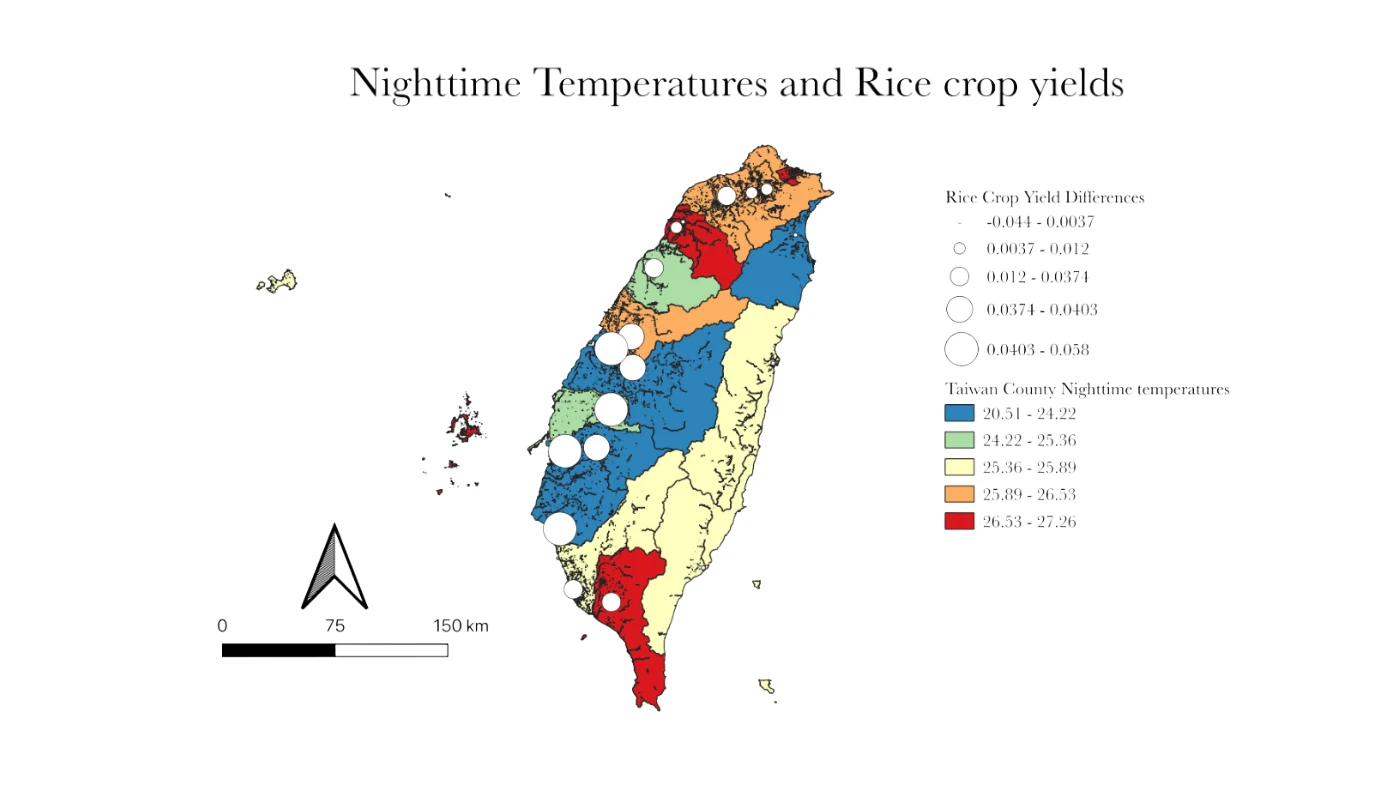
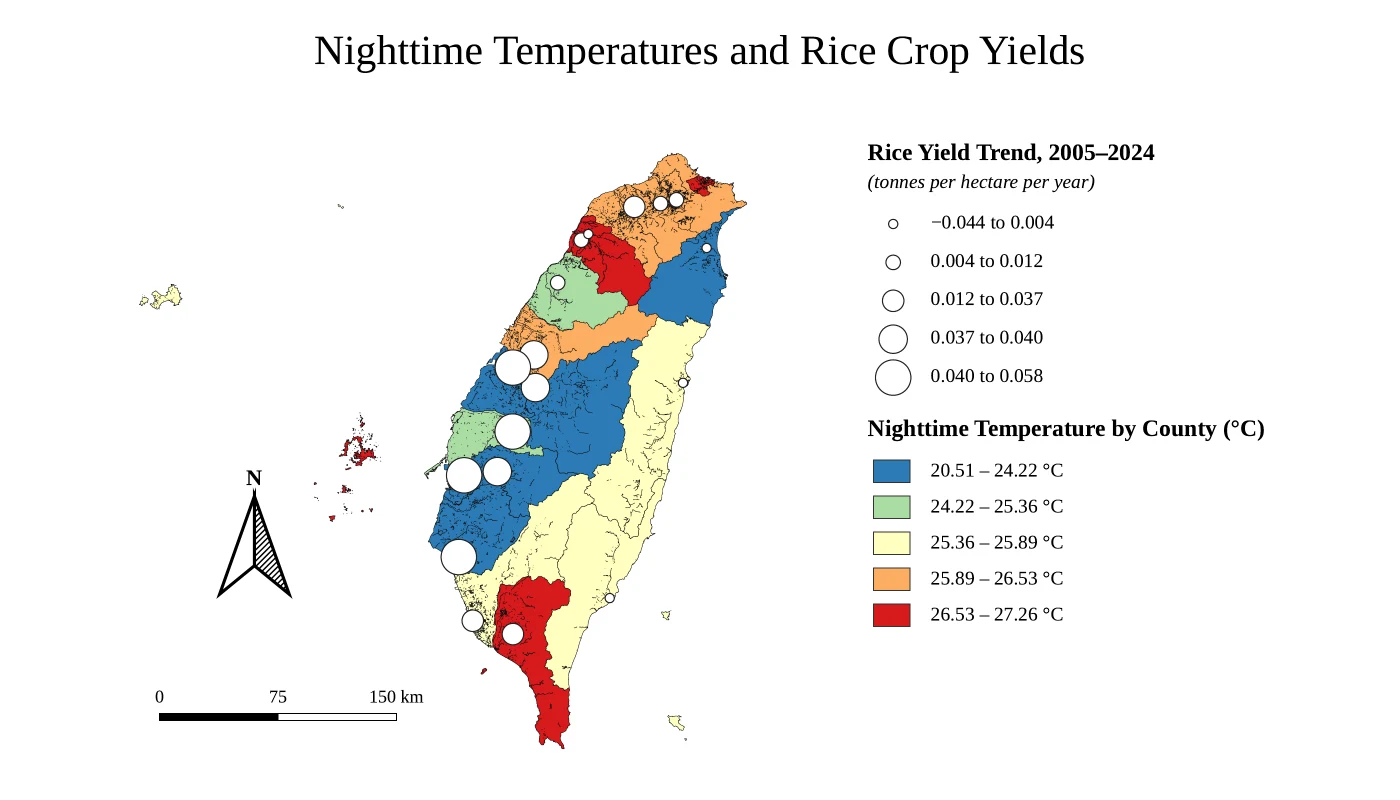
Description and Math Model: Audrey's new map, and what the business plan still prices
Description: the nighttime-temperature map is Audrey's 21 October export. The
temperature bands are unchanged; the circles are now labelled as the 2005-2024
rice yield trend in tonnes per hectare per year, so the caption and the alt
text say that instead of "yield differences".

Math Model: one sentence under the three-figure table says the business plan
has not been rebuilt on the US$3,800 result -- it prices two 1-litre reactors
to the hectare, a US$2,280 hardware line. Entrepreneurship is untouched, and
that sentence is the only place this page quotes its number.

diff --git a/model/index.html b/model/index.html
@@ -157,6 +157,13 @@
   are US$9,375. The unit price was carried as US$938, which did not multiply to
   the stated fleet total; it is written as US$937.50 throughout now. The
   US$379,992 for 100 hectares is a downstream rounding and was left alone.
+
+  THE BUSINESS PLAN STILL PRICES THE OLD FLEET, 21 October 2026. Entrepreneurship
+  sizes two 1-litre reactors to the hectare and carries a US$2,280 hardware line;
+  this page derives US$3,800. One sentence under the three-figure table says so,
+  and it is the only place on this page that quotes the business plan's number.
+  Entrepreneurship was not touched. If either figure moves, edit that sentence
+  and nothing else here.
 -->
   <div id="site-nav" data-base="../" data-tab="drylab" data-page="model"></div>
   <div class="sitenav-spacer"></div>
@@ -402,6 +409,7 @@ constants, public records and the five assumptions of Section 3 fill the steps b
 farmland requires, the gap between that and current reactor output, and the cost of closing it.
 All three carry the canopy correction, so they are scenario figures and not quotations.</p>
 <div class="tablewrap"><table class="data"><caption class="visually-hidden">The three numbers the business plan asked for, and where each comes from</caption><tr><th>The question</th><th>The answer this model gives</th><th>Where in the model</th></tr><tr><td>How much protectant does one hectare need?</td><td><b>37.6 kU</b> per application and <b>339 kU</b> in a season that fires, which at our secreted protein concentration is about 10 g and 92 g of enzyme</td><td>M4, the protectant group</td></tr><tr><td>How far is that from what we can make now?</td><td>One hectare needs <b>81 L of vessel</b> running all season. The current spec is 10 × 20 L = 200 L, which covers <b>2.5 ha</b>, about one Taiwanese farm. A 100-hectare association needs 8,106 L, a <b>41×</b> scale-up</td><td>M4, the machine group, and M5</td></tr><tr><td>What does that cost?</td><td><b>US$3,800 of capital per hectare</b> at US$937.50 per 20-litre unit, before any refill, service or labour. For 100 hectares, US$379,992</td><td>M4, the result line</td></tr></table></div>
+<p>The business plan has not yet been rebuilt on the last of these. It prices two units of the 1-litre system to the hectare, a hardware line of US$2,280 per hectare against the US$3,800 derived here.</p>
 <p>Geospatial Analysis answers a similar but distinct question. It derives units per hectare
 from soil class, which governs how far and how long the protectant remains where it is applied;
 this page derives units per hectare from reactor throughput, which governs whether enough can be

diff --git a/description/index.html b/description/index.html
@@ -42,6 +42,12 @@
   one table in build_map.py (agent scratchpad), which rewrites the block between
   the MAP markers; the icons are the team's own BioRender work and none of it
   is AI-written. Edit the script, never the markup.
+
+  21 October 2026. Audrey's fix: the nighttime-temperature map is her new
+  export ("nighttime_temp_rice_yield_map", 21 Oct). The temperature bands are
+  unchanged; the circles are now labelled as the 2005-2024 rice yield trend in
+  tonnes per hectare per year, so the caption and the alt text say that instead
+  of "yield differences".
 -->
 
 <!--
@@ -387,9 +393,9 @@
 
         <figure class="fig">
           <img src="../assets/img/description/gis-night-temp-rice-crop.webp"
-               alt="A choropleth map of Taiwan titled Nighttime Temperatures and Rice crop yields. Counties are shaded by nighttime temperature in five bands from 20.51 to 27.26 degrees Celsius, blue to red, and white proportional circles show rice crop yield differences by station. The hottest counties are in the far north-west and the south."
+               alt="A choropleth map of Taiwan titled Nighttime Temperatures and Rice Crop Yields. Counties are shaded by nighttime temperature in five bands from 20.51 to 27.26 degrees Celsius, blue to red, and white proportional circles show the 2005 to 2024 rice yield trend in tonnes per hectare per year at each station. The hottest counties are in the far north-west and the south."
                width="1400" height="800" loading="lazy" decoding="async" />
-          <figcaption>County nighttime temperature, 18:00 to 00:00, averaged over 2013 to 2016, in degrees Celsius. The circles are scaled by the difference in rice crop yield recorded at each station.</figcaption>
+          <figcaption>County nighttime temperature, 18:00 to 00:00, averaged over 2013 to 2016, in degrees Celsius. The circles are scaled by the rice yield trend at each station over 2005 to 2024, in tonnes per hectare per year.</figcaption>
         </figure>
 
         <p>Warming, the size of a farm and the age of the person farming it all vary widely from region to region. A farmer does not experience a national average; they experience the conditions of their own field. Taiwan is exposed on top of that: more than 23 million people depend on around 769,000 hectares of cultivable land, and typhoons, drought and other climate-related disasters keep threatening what it produces.</p>
